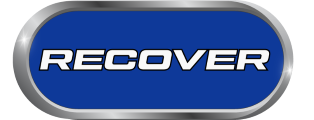
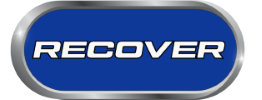
added recover button

diff --git a/GA_GUI.py b/GA_GUI.py
@@ -328,6 +328,12 @@ class GA(tk.Tk):
         self.landing_gear_page.pack(side="top", fill="both", expand=True)
         self.add_background_image(self.landing_gear_page, "/home/pi/TEAM_MADA/images/landing_gear_page.png")
 
+        self.recover_retract_btn = tk.Button(self.landing_gear_page, image=self.recover_retract_img,
+                                             highlightthickness=0,
+                                             activebackground='#092a81', background='#092a81',
+                                             command=self.recover_retract,
+                                             borderwidth=0, relief="flat", bd=0)
+        self.recover_retract_btn.place(x=275, y=125)
 
         self.landing_gear_btn = self.images["/home/pi/TEAM_MADA/btn_images/landing_gear.png"]
         self.landing_gear_btn_fun = tk.Button(self.page3, image=self.landing_gear_btn, highlightthickness=0,
@@ -389,6 +395,14 @@ class GA(tk.Tk):
         self.aileron_servo_page = tk.Frame(self)
         self.aileron_servo_page.pack(side="top", fill="both", expand=True)
         self.add_background_image(self.aileron_servo_page, "/home/pi/TEAM_MADA/images/aileron_page.png")
+
+        self.recover_aileron_img = self.images["btn_images/recover_btn.png"]
+        self.recover_aileron_btn = tk.Button(self.aileron_servo_page, image=self.recover_aileron_img,
+                                             highlightthickness=0,
+                                             activebackground='#092a81', background='#092a81',
+                                             command=self.recover_aileron,
+                                             borderwidth=0, relief="flat", bd=0)
+        self.recover_aileron_btn.place(x=275, y=125)
 
         self.aileron_btn = self.images["/home/pi/TEAM_MADA/btn_images/aileron.png"]
         self.next_button = tk.Button(self.page3, image=self.aileron_btn, highlightthickness=0,
@@ -809,6 +823,13 @@ class GA(tk.Tk):
         GPIO.setwarnings(False)
         GPIO.setup(16, GPIO.OUT)
         GPIO.output(16, GPIO.HIGH)
+
+
+    def recover_aileron(self):
+        print("recover_aileron")
+
+    def recover_retract(self):
+        print("recover_retract")
     def preload_images(self):
         # Create a dictionary of all image file paths
         self.images = {}
@@ -858,7 +879,8 @@ class GA(tk.Tk):
                        "/home/pi/TEAM_MADA/btn_images/antenna_left.png",
                        "/home/pi/TEAM_MADA/btn_images/antenna_right.png",
                        "/home/pi/TEAM_MADA/images/adminmenu_btn.png",
-                       "/home/pi/TEAM_MADA/btn_images/team_btn.png"
+                       "/home/pi/TEAM_MADA/btn_images/team_btn.png",
+                       "/home/pi/TEAM_MADA/btn_images/recover_btn.png"
                        ]
 
         # Load each image and store it as an attribute of the class

diff --git a/NEW_GA_GUI.py b/NEW_GA_GUI.py
@@ -330,6 +330,14 @@ class GA(tk.Tk):
                                               borderwidth=0, relief="flat", bd=0)
         self.landing_gear_btn_fun.place(x=550, y=650)
 
+        self.recover_retract_img = self.images["btn_images/recover_btn.png"]
+        self.recover_retract_btn = tk.Button(self.landing_gear_page, image=self.recover_retract_img,
+                                             highlightthickness=0,
+                                             activebackground='#092a81', background='#092a81',
+                                             command=self.recover_retract,
+                                             borderwidth=0, relief="flat", bd=0)
+        self.recover_retract_btn.place(x=275, y=125)
+
         self.back1 = self.images["images/adminmenu_btn.png"]
         self.next_button = tk.Button(self.landing_gear_page, image=self.back1, highlightthickness=0,
                                      activebackground='white', background='white', command=self.show_page3,
@@ -375,6 +383,12 @@ class GA(tk.Tk):
         self.aileron_servo_page = tk.Frame(self)
         self.aileron_servo_page.pack(side="top", fill="both", expand=True)
         self.add_background_image(self.aileron_servo_page, "images/aileron_page.png")
+
+        self.recover_aileron_img = self.images["btn_images/recover_btn.png"]
+        self.recover_aileron_btn = tk.Button(self.aileron_servo_page, image=self.recover_aileron_img, highlightthickness=0,
+                                     activebackground='#092a81', background='#092a81', command=self.recover_aileron,
+                                     borderwidth=0, relief="flat", bd=0)
+        self.recover_aileron_btn.place(x=275, y=125)
 
         self.aileron_btn = self.images["btn_images/aileron.png"]
         self.next_button = tk.Button(self.page3, image=self.aileron_btn, highlightthickness=0,
@@ -772,6 +786,11 @@ class GA(tk.Tk):
             self.Fuel_pump_en = False
             self.switch_button_fuel.config(image=self.switch_button_fuel_off)
 
+    def recover_aileron(self):
+        print("recover_aileron")
+
+    def recover_retract(self):
+        print("recover_retract")
     def preload_images(self):
         # Create a dictionary of all image file paths
         self.images = {}
@@ -821,7 +840,8 @@ class GA(tk.Tk):
                        "btn_images/antenna_left.png",
                        "btn_images/antenna_right.png",
                        "images/adminmenu_btn.png",
-                       "btn_images/team_btn.png"
+                       "btn_images/team_btn.png",
+                       "btn_images/recover_btn.png"
                        ]
 
         # Load each image and store it as an attribute of the class
